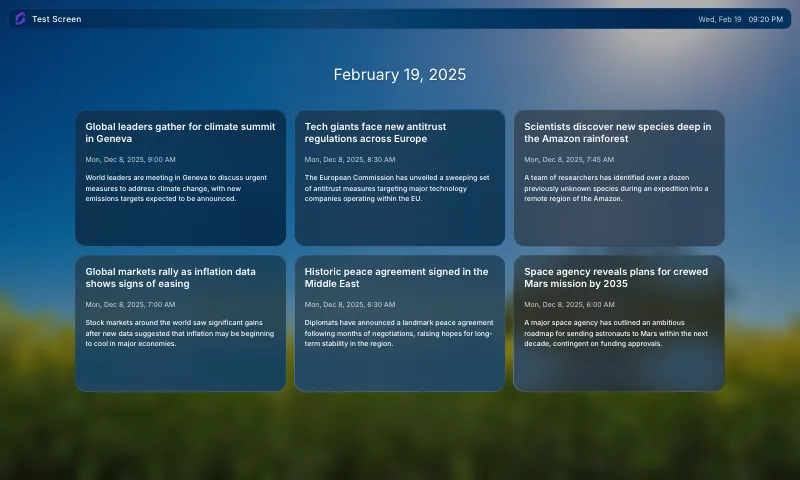
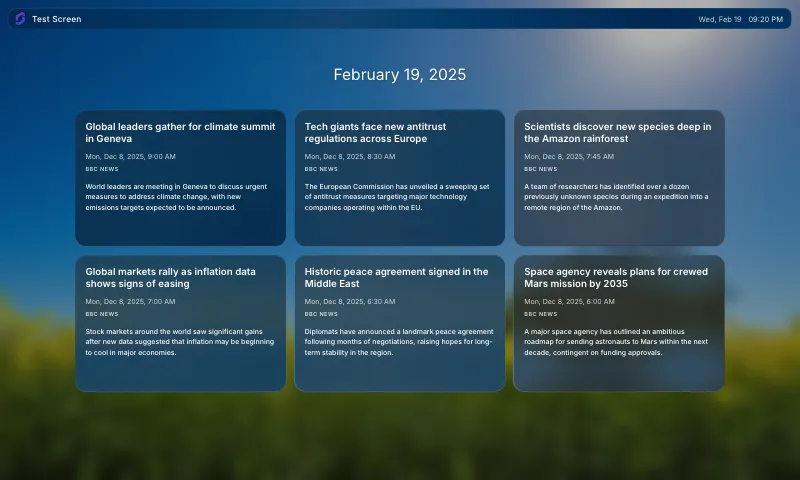
feat(rss-reader): add source label to feed cards
- Add feed-card-source element to card template
- Display rss_title as source label on each card
- Style source label as small, muted, uppercase text
- Group title, date, and source in feed-card-meta wrapper
- Update docs to reflect rss_title usage

diff --git a/edge-apps/rss-reader/src/main.ts b/edge-apps/rss-reader/src/main.ts
@@ -18,6 +18,7 @@ async function fetchFeed(
   rssUrl: string,
   locale: string,
   timezone: string,
+  source: string,
 ): Promise<RssEntry[]> {
   const bypassCors =
     getSettingWithDefault<string>('bypass_cors', 'true') === 'true'
@@ -34,6 +35,7 @@ async function fetchFeed(
     const rawContent = item.content ?? item.description ?? ''
     return {
       title: item.title ?? '',
+      source,
       content: rawContent.includes('<') ? stripHtml(rawContent) : rawContent,
       formattedDate: item.published
         ? formatLocalizedDate(item.published, locale, {
@@ -64,6 +66,8 @@ function renderCards(entries: RssEntry[]) {
       entry.title
     clone.querySelector<HTMLElement>('.feed-card-date')!.textContent =
       entry.formattedDate
+    clone.querySelector<HTMLElement>('.feed-card-source')!.textContent =
+      entry.source
     clone.querySelector<HTMLElement>('.feed-card-excerpt')!.textContent =
       entry.content
     grid.appendChild(clone)
@@ -87,12 +91,13 @@ document.addEventListener('DOMContentLoaded', async () => {
     'rss_url',
     'http://feeds.bbci.co.uk/news/rss.xml',
   )
+  const rssTitle = getSettingWithDefault<string>('rss_title', 'RSS Feed')
   const cacheInterval =
     parseInt(getSettingWithDefault<string>('cache_interval', '1800')) * 1000
 
   const loadAndRender = async () => {
     try {
-      const entries = await fetchFeed(rssUrl, locale, timezone)
+      const entries = await fetchFeed(rssUrl, locale, timezone, rssTitle)
       saveCache(entries)
       renderCards(entries)
       showGrid()

diff --git a/edge-apps/rss-reader/src/css/style.css b/edge-apps/rss-reader/src/css/style.css
@@ -103,6 +103,12 @@ auto-scaler {
     inset 0 -0.75px 0 rgba(255, 255, 255, 0.05);
 }
 
+.feed-card-meta {
+  display: flex;
+  flex-direction: column;
+  gap: 0.375rem;
+}
+
 .feed-card-title {
   margin: 0;
   font-size: 1.458rem;
@@ -116,11 +122,21 @@ auto-scaler {
 }
 
 .feed-card-date {
+  margin-top: 0.5rem;
   font-size: 1.042rem;
   font-weight: 400;
   line-height: 1.563rem;
   color: var(--text-muted);
   white-space: nowrap;
+}
+
+.feed-card-source {
+  font-size: 0.833rem;
+  font-weight: 600;
+  line-height: 1.25rem;
+  color: var(--text-muted);
+  letter-spacing: 0.08em;
+  text-transform: uppercase;
 }
 
 .feed-card-excerpt {
@@ -186,8 +202,14 @@ auto-scaler {
   }
 
   .feed-card-date {
+    margin-top: 1rem;
     font-size: 2rem;
     line-height: 2.75rem;
+  }
+
+  .feed-card-source {
+    font-size: 1.5rem;
+    line-height: 2rem;
   }
 
   .feed-card-excerpt {

diff --git a/edge-apps/rss-reader/src/utils.test.ts b/edge-apps/rss-reader/src/utils.test.ts
@@ -18,8 +18,18 @@ const localStorageMock = (() => {
 global.localStorage = localStorageMock as unknown as Storage
 
 const ENTRIES: RssEntry[] = [
-  { title: 'Title 1', content: 'Content 1', formattedDate: 'Mon, Dec 8, 2025' },
-  { title: 'Title 2', content: 'Content 2', formattedDate: 'Mon, Dec 8, 2025' },
+  {
+    title: 'Title 1',
+    source: 'BBC News',
+    content: 'Content 1',
+    formattedDate: 'Mon, Dec 8, 2025',
+  },
+  {
+    title: 'Title 2',
+    source: 'BBC News',
+    content: 'Content 2',
+    formattedDate: 'Mon, Dec 8, 2025',
+  },
 ]
 
 describe('stripHtml', () => {

diff --git a/edge-apps/rss-reader/index.html b/edge-apps/rss-reader/index.html
@@ -17,8 +17,11 @@
 
         <template id="feed-card-template">
           <article class="feed-card">
-            <h2 class="feed-card-title"></h2>
-            <time class="feed-card-date"></time>
+            <div class="feed-card-meta">
+              <h2 class="feed-card-title"></h2>
+              <time class="feed-card-date"></time>
+              <span class="feed-card-source"></span>
+            </div>
             <p class="feed-card-excerpt"></p>
           </article>
         </template>

diff --git a/edge-apps/rss-reader/src/utils.ts b/edge-apps/rss-reader/src/utils.ts
@@ -4,6 +4,7 @@ export interface RssEntry {
   title: string
   content: string
   formattedDate: string
+  source: string
 }
 
 interface AppCache {

diff --git a/edge-apps/rss-reader/README.md b/edge-apps/rss-reader/README.md
@@ -43,7 +43,7 @@ screenly edge-app instance create
 | `display_errors`    | Show errors on screen for debugging purposes                         | optional | `false`                                |
 | `override_locale`   | Override the locale used for date formatting (e.g. `en`, `fr`, `de`) | optional | `en`                                   |
 | `override_timezone` | Override the timezone for date display (e.g. `Europe/London`)        | optional | system timezone                        |
-| `rss_title`         | Title of the RSS feed source (used for deployment)                   | required | `BBC News`                             |
+| `rss_title`         | Source label displayed on each card                                  | required | `BBC News`                             |
 | `rss_url`           | URL of the RSS feed to display                                       | required | `http://feeds.bbci.co.uk/news/rss.xml` |
 
 ## Screenshots

diff --git a/edge-apps/rss-reader/DEPLOYMENT.md b/edge-apps/rss-reader/DEPLOYMENT.md
@@ -13,7 +13,7 @@ Creates a new RSS reader app.
 - Environment (stage/production)
 - App Name (instance title)
 - App Description (manifest description)
-- RSS Title (displayed in app UI)
+- RSS Title (source label displayed on each card)
 - Icon URL
 - RSS Feed URL
 
